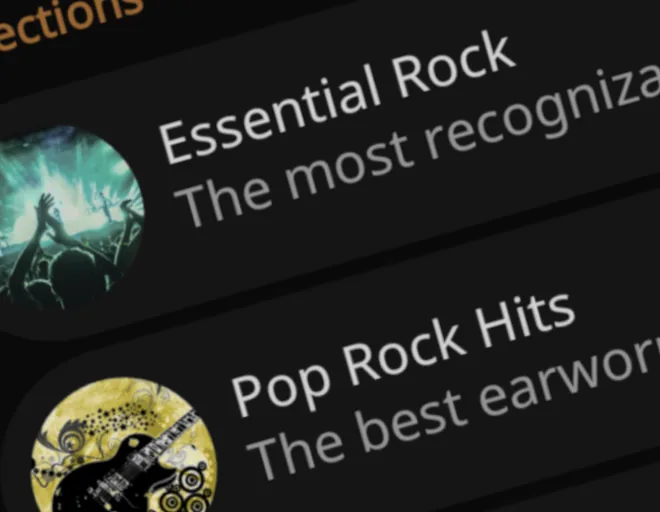
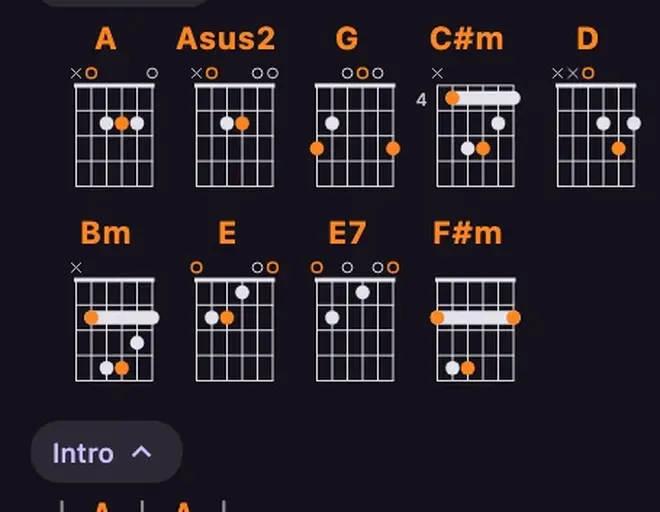
Update the description for Campfire.

diff --git a/index.html b/index.html
@@ -1023,8 +1023,8 @@
 						<a class="card art-campfire" href="https://campfire-songbook.com/" target="_blank" rel="noopener">
 							<span class="art" aria-hidden="true"></span>
 							<span class="icon"><img src="resources/ic_campfire.png" alt=""></span>
-							<span><h4>Campfire</h4><span class="kind label">Lyrics and chords</span></span>
-							<p>Your own library of ChordPro songs, with an editor, setlists, transposition, and Dropbox sync.</p>
+							<span><h4>Campfire</h4><span class="kind label">Songbook &amp; metronome</span></span>
+							<p>A free songbook for lyrics and chords with setlists, chord diagrams and metronome.</p>
 						</a>
 						<a class="card art-kubriko" href="kubriko/" target="_blank" rel="noopener">
 							<span class="art" aria-hidden="true"></span>
